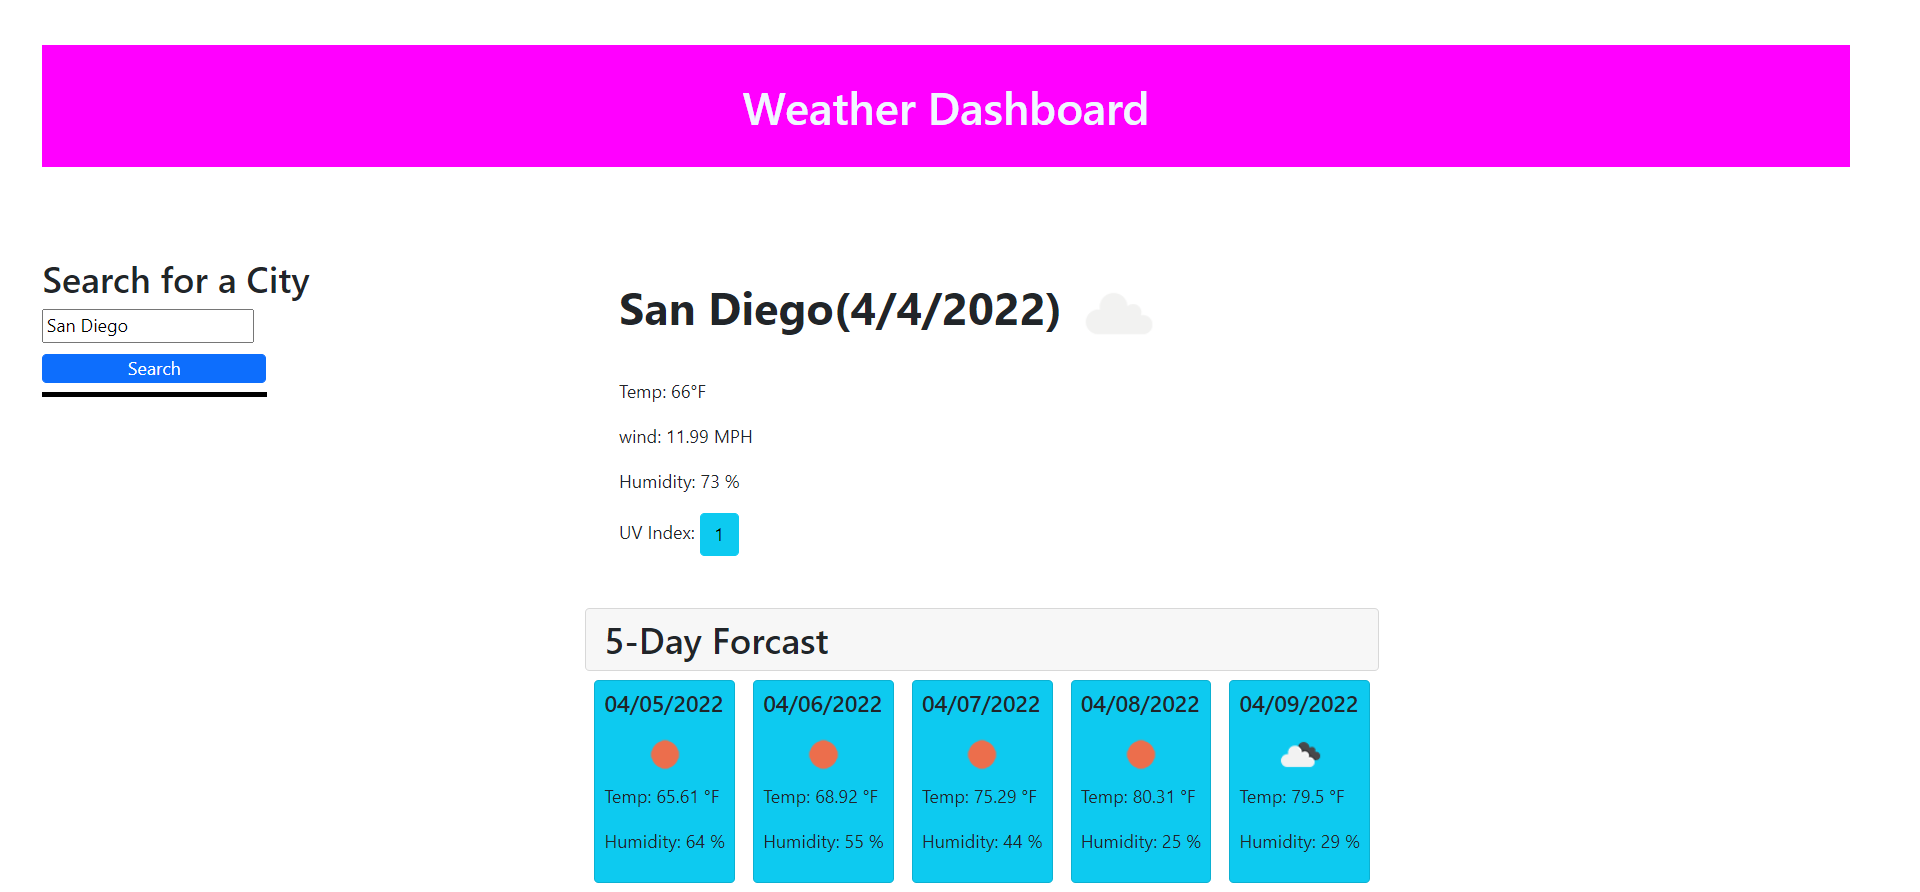
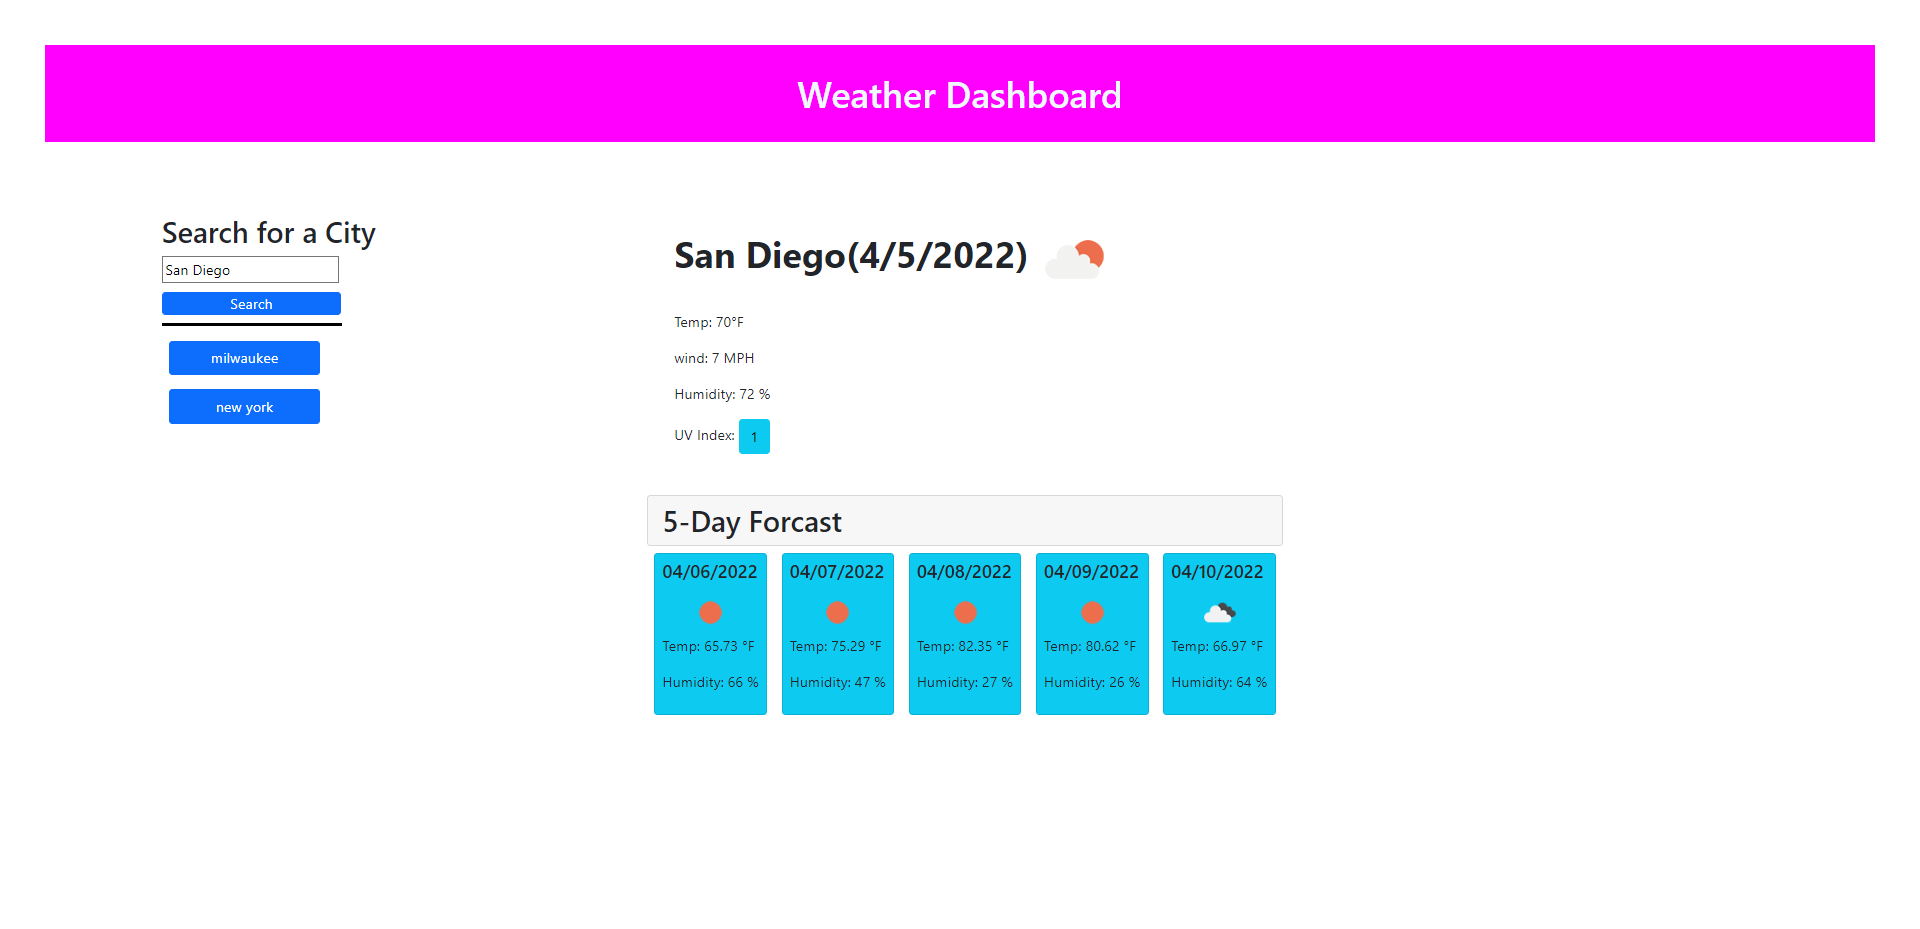
fixed styling

diff --git a/index.html b/index.html
@@ -20,12 +20,12 @@
     <!--Main Body of the app-->
     <main class="row">
         <!--Left column-->
-        <aside class="col-md-3">
+        <aside class="col-md-2 mx-auto">
             <h2>Search for a City</h2>
             <input type="text" id="cityText" name="city" value="San Diego">
             <button id="search" class="btn btn-toolbar btn-primary">Search</button>
             <div id="hr"></div>
-            <div class="form-text text-center" id="recentSearch"></div>
+            <div class="form-text" id="recentSearch"></div>
         </aside>
         <!--Current Weather Display-->
         <div id="weather" class="col-md-8 d-flex justify-content-start">

diff --git a/assets/js/script.js b/assets/js/script.js
@@ -153,7 +153,7 @@ function getLocalStorage() {
         recentSearch.innerText=""
         for (let i = 0; i < search.length; i++) {
             const button = document.createElement("button")
-            button.classList.add("m-2", "btn", "btn-primary", "col-12" , "row-cols-1")
+            button.classList.add("m-2", "btn", "btn-primary", "brn-block" , "row-cols-1" , "col-md-6" )
             button.innerHTML = search[i]
             button.addEventListener("click", function () {
                 getCurrentCity(search[i])

diff --git a/assets/css/style.css b/assets/css/style.css
@@ -26,4 +26,3 @@ aside{
 #uv{
     padding: 4px;
 }
-
